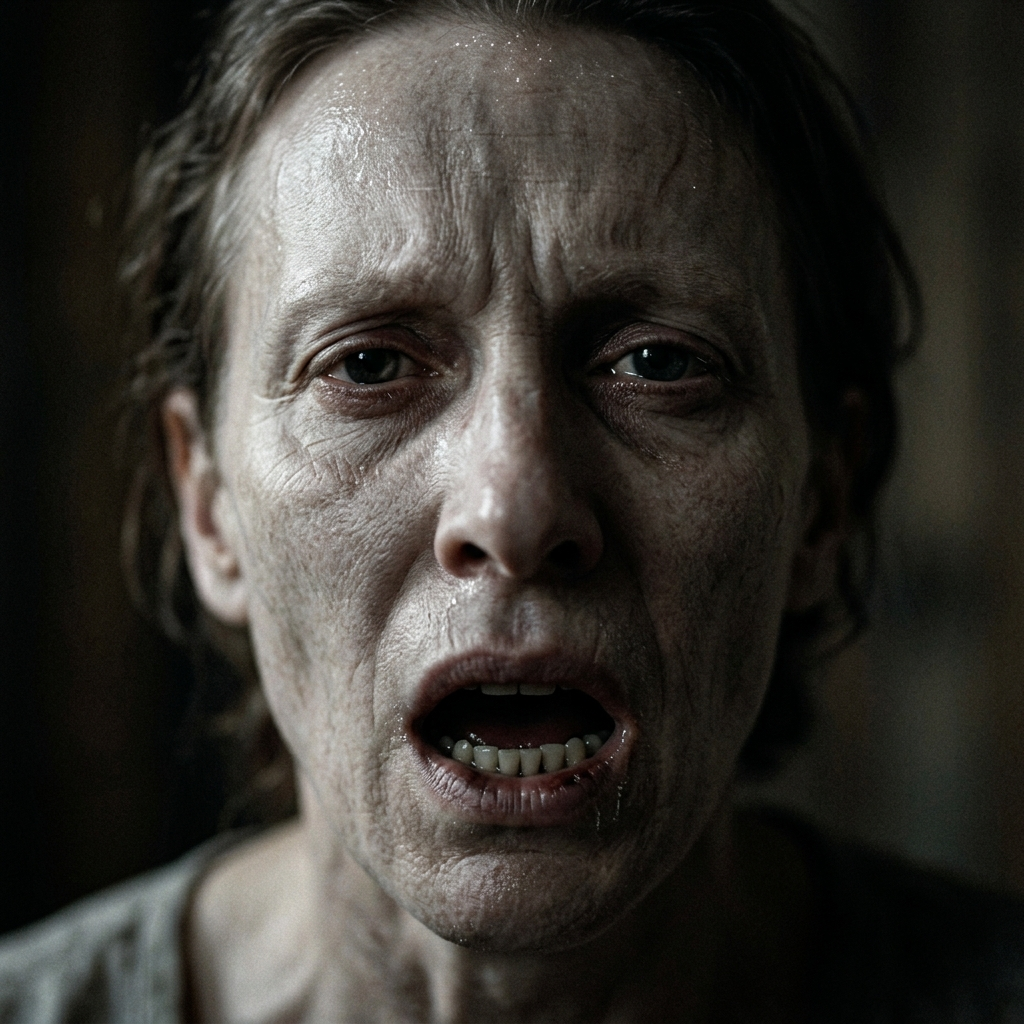
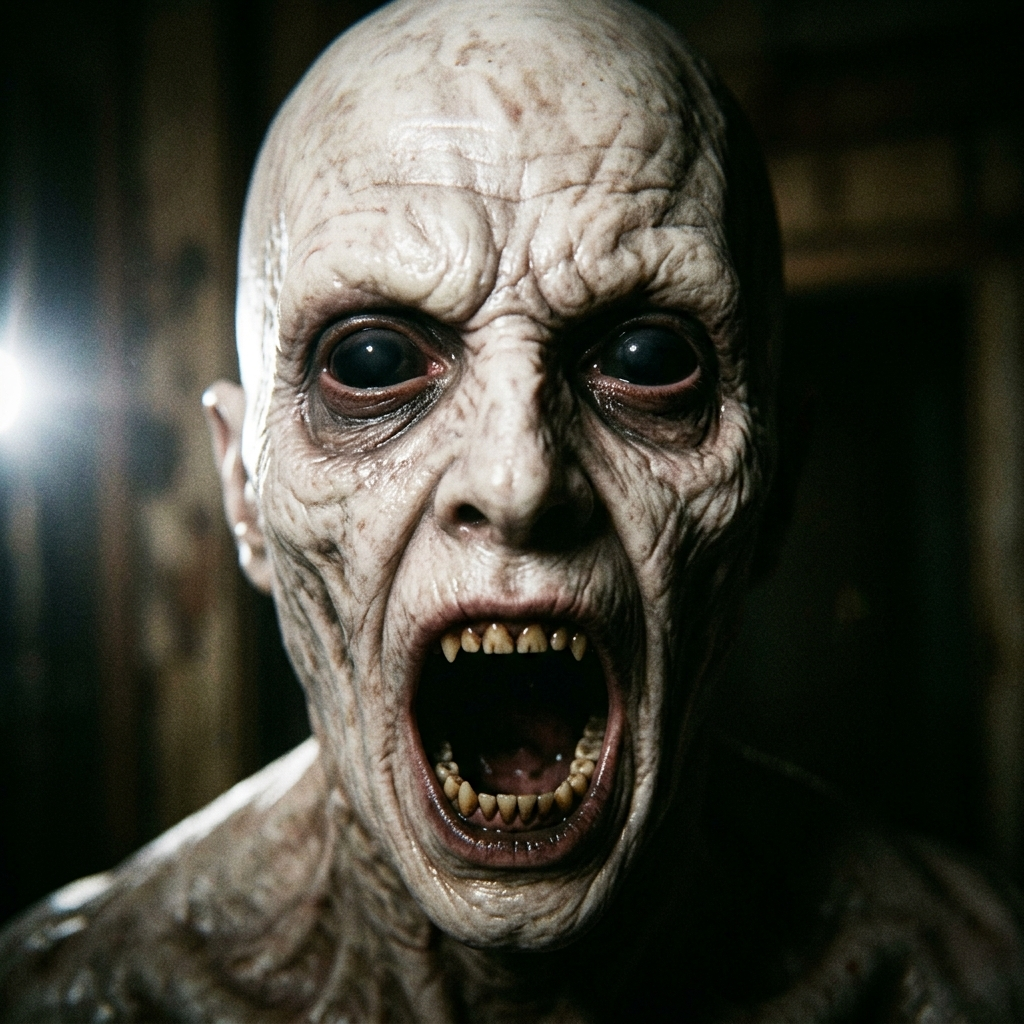
feat: replace jumpscare_3 with a brand new realistic photo, adjust battery consumption to 0.25% per second, rename fuel to battery/pil everywhere, and apply grayscale/brightness filters to show flashlight turned off visually

diff --git a/js/translations.js b/js/translations.js
@@ -24,7 +24,7 @@ export const translations = {
     back: "Back",
     health: "Health",
     gold: "Gold",
-    fuel: "Fuel",
+    fuel: "Battery",
     quests: "Active Quests",
     inventory: "Inventory",
     mapTitle: "Maze Map",
@@ -52,7 +52,7 @@ export const translations = {
       rope: { name: "Rope", desc: "Used to cross bottomless chasms safely." },
       compass: { name: "Compass", desc: "Indicates the general direction of the exit." },
       map_piece: { name: "Map Fragment", desc: "Reveals a section of the maze when consumed." },
-      fuel: { name: "Lantern Oil", desc: "Replenishes 30% of lantern fuel." },
+      fuel: { name: "Battery", desc: "Replenishes 30% of flashlight power." },
       cheese: { name: "Old Cheese", desc: "Slightly smelly. Might interest a rodent." }
     },
 
@@ -75,7 +75,7 @@ export const translations = {
       mimicTitle: "A Mimic!",
       mimicText: "The chest turns out to be a mimic! It bites you for {damage} damage.",
       trapText: "A poison dart shoots out! You lose {damage} health.",
-      fuelLeakText: "A gas leak tarnishes your light. Lantern fuel drained by 25%.",
+      fuelLeakText: "A battery leak drains your power. Flashlight power drained by 25%.",
       goldReward: "You found {amount} gold pieces!",
       itemReward: "You found a {item}!",
       adUndo: "Watch Ad to Undo Trap",
@@ -137,7 +137,7 @@ export const translations = {
         choice2: "Avoid (Go opposite direction)",
         choice3: "Ignore and continue",
         resInvestigate: "You find a skeleton clutching a pouch! You gain 15 gold, but breathe in toxic spores (lose 10 health).",
-        resAvoid: "You safely avoid any potential danger, but your lantern burns extra fuel (-10% fuel) as you rush.",
+        resAvoid: "You safely avoid any potential danger, but your flashlight burns extra power (-10% power) as you rush.",
         resIgnore: "You walk past. The sound fades, leaving you with an eerie silence."
       },
       shrine: {
@@ -146,14 +146,14 @@ export const translations = {
         choice2: "Destroy shrine for loot",
         choice3: "Leave it alone",
         resOffer: "The altar glows warmly. Your health is fully restored!",
-        resDestroy: "You smash the altar! You find a Map Fragment, but a curse dims your lantern (-30% fuel).",
+        resDestroy: "You smash the altar! You find a Map Fragment, but a curse dims your flashlight (-30% power).",
         resIgnore: "You walk past the altar. Nothing happens."
       },
       fog: {
         desc: "A sudden, dense wave of cold fog rolls into the corridor, blinding you.",
         choice1: "Stand still and wait it out",
         choice2: "Run forward blindly",
-        resWait: "You wait. The fog clears, but the cold dampness drains your lantern fuel (-15% fuel).",
+        resWait: "You wait. The fog clears, but the cold dampness drains your flashlight power (-15% power).",
         resRun: "You run and trip over a loose stone! You take 15 damage, but end up in a different corridor."
       }
     },
@@ -212,7 +212,7 @@ export const translations = {
     back: "Geri",
     health: "Sağlık",
     gold: "Altın",
-    fuel: "Gaz Yağı",
+    fuel: "Pil",
     quests: "Aktif Görevler",
     inventory: "Envanter",
     mapTitle: "Labirent Haritası",
@@ -240,7 +240,7 @@ export const translations = {
       rope: { name: "Halat", desc: "Dipsiz uçurumlardan güvenle geçmek için kullanılır." },
       compass: { name: "Pusula", desc: "Çıkışın genel yönünü gösterir." },
       map_piece: { name: "Harita Parçası", desc: "Kullanıldığında labirentin bir kısmını açar." },
-      fuel: { name: "Fener Yağı", desc: "Fener yakıtını %30 doldurur." },
+      fuel: { name: "Pil", desc: "El feneri gücünü %30 doldurur." },
       cheese: { name: "Eski Peynir", desc: "Biraz kokulu. Bir kemirgenin ilgisini çekebilir." }
     },
 
@@ -263,7 +263,7 @@ export const translations = {
       mimicTitle: "Taklitçi (Mimic)!",
       mimicText: "Sandık bir canavara dönüştü! Seni ısırarak {damage} hasar verdi.",
       trapText: "Zehirli bir iğne fırladı! {damage} sağlık kaybettiniz.",
-      fuelLeakText: "Gaz sızıntısı ışığınızı körletti. Fener yakıtı %25 azaldı.",
+      fuelLeakText: "Pil sızıntısı ışığınızı körletti. El feneri gücü %25 azaldı.",
       goldReward: "Sandıktan {amount} altın çıktı!",
       itemReward: "Bir {item} buldunuz!",
       adUndo: "Tuzaktan Kaçmak İçin Reklam İzle",

diff --git a/js/ui.js b/js/ui.js
@@ -542,11 +542,13 @@ function setupUI(game) {
     if (lanternBtn) {
       if (s.lanternOn && p.fuel > 0) {
         lanternBtn.innerHTML = "🔦✨";
+        lanternBtn.style.filter = "none";
         lanternBtn.style.background = "rgba(251, 191, 38, 0.35)"; // Amber active background
         lanternBtn.style.borderColor = "rgba(251, 191, 38, 0.75)";  // Glowing amber border
         lanternBtn.style.boxShadow = "0 0 15px rgba(251, 191, 38, 0.4)";
       } else {
         lanternBtn.innerHTML = "🔦";
+        lanternBtn.style.filter = "grayscale(1) brightness(0.6)";
         lanternBtn.style.background = "rgba(15, 23, 42, 0.45)";    // Dark inactive background
         lanternBtn.style.borderColor = "rgba(251, 191, 38, 0.25)";  // Inactive border
         lanternBtn.style.boxShadow = "0 0 10px rgba(0, 0, 0, 0.3)";
@@ -927,8 +929,8 @@ function setupUI(game) {
       icon = "🧭";
     } else if (message.toLowerCase().includes("harita") || message.toLowerCase().includes("map")) {
       icon = "🗺️";
-    } else if (message.toLowerCase().includes("yağ") || message.toLowerCase().includes("fuel")) {
-      icon = "🪔";
+    } else if (message.toLowerCase().includes("pil") || message.toLowerCase().includes("battery")) {
+      icon = "🔋";
     } else if (message.toLowerCase().includes("peynir") || message.toLowerCase().includes("cheese")) {
       icon = "🧀";
     }

diff --git a/js/game.js b/js/game.js
@@ -586,7 +586,7 @@ export class Game {
 
     // Fuel consumption when lantern is ON
     if (this.state.lanternOn && p.fuel > 0) {
-      p.fuel = Math.max(0, p.fuel - dt * 0.8); // 0.8% fuel per second
+      p.fuel = Math.max(0, p.fuel - dt * 0.25); // 0.25% battery per second (lasts 400 seconds)
       if (p.fuel === 0) {
         this.state.lanternOn = false; // Turn off automatically when out of fuel
       }